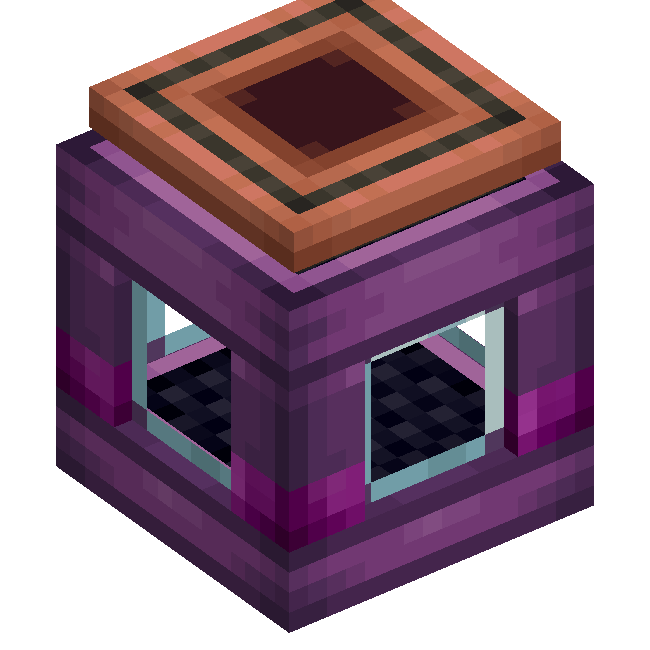
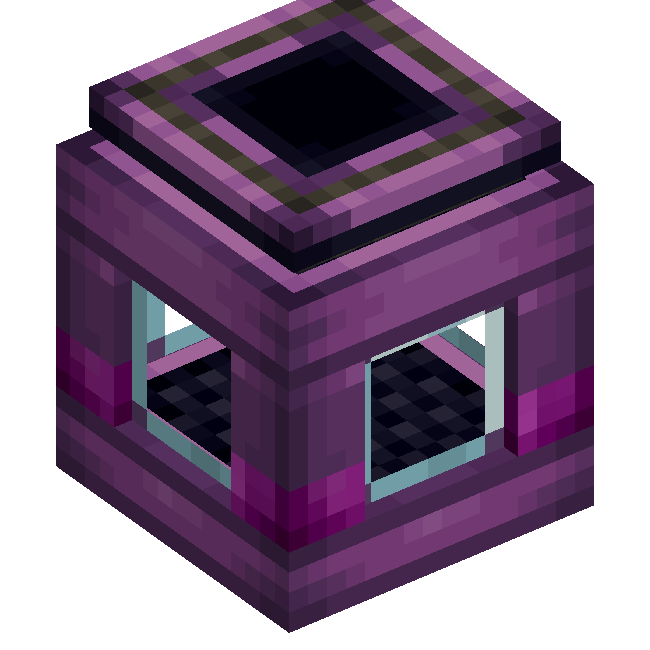
Match delivery interface copper regions to creative tank palette

Changed region(s): [[0.1231, 0.0, 0.8615, 0.4308]]

diff --git a/tools/recolor-creative-delivery-mouth.py b/tools/recolor-creative-delivery-mouth.py
@@ -1,0 +1,21 @@
+"""Create-derived interface atlas, recolored to native creative casing palette."""
+from pathlib import Path
+import sys,json
+from PIL import Image
+sys.path.insert(0,str(Path.home()/'.config/opencode/skills/pixel-art/scripts'))
+from pxl import Canvas
+root=Path(__file__).resolve().parents[1]
+reference=Path.home()/'AppData/Local/Temp/opencode/create-art-reference/assets/create/textures/block'
+image=Image.open(reference/'portable_fluid_interface.png').convert('RGBA')
+creative=Image.open(reference/'creative_casing.png').convert('RGBA')
+palette=sorted(set(creative.getdata()),key=lambda p:sum(p[:3]))
+copper=sorted({p for p in image.getdata() if p[3] and p[0]>p[1]*1.2 and p[0]>p[2]*1.2},key=lambda p:sum(p[:3]))
+mapping={color:palette[round(i*(len(palette)-1)/max(1,len(copper)-1))] for i,color in enumerate(copper)}
+canvas=Canvas.open(str(reference/'portable_fluid_interface.png'))
+for y in range(image.height):
+ for x in range(image.width):
+  pixel=image.getpixel((x,y))
+  if pixel in mapping:canvas.set(x,y,(*mapping[pixel][:3],pixel[3]))
+target=root/'src/main/resources/assets/ccd/textures/block/creative_delivery_fluid_tank/interface.png'
+target.parent.mkdir(parents=True,exist_ok=True);canvas.save(str(target))
+target.with_suffix('.meta.json').write_text(json.dumps({'source':'Create portable_fluid_interface.png','palette':'Create creative_casing.png','change':'Copper colors replaced; UV, size, alpha and neutral metal preserved.'},indent=2)+'\n')
